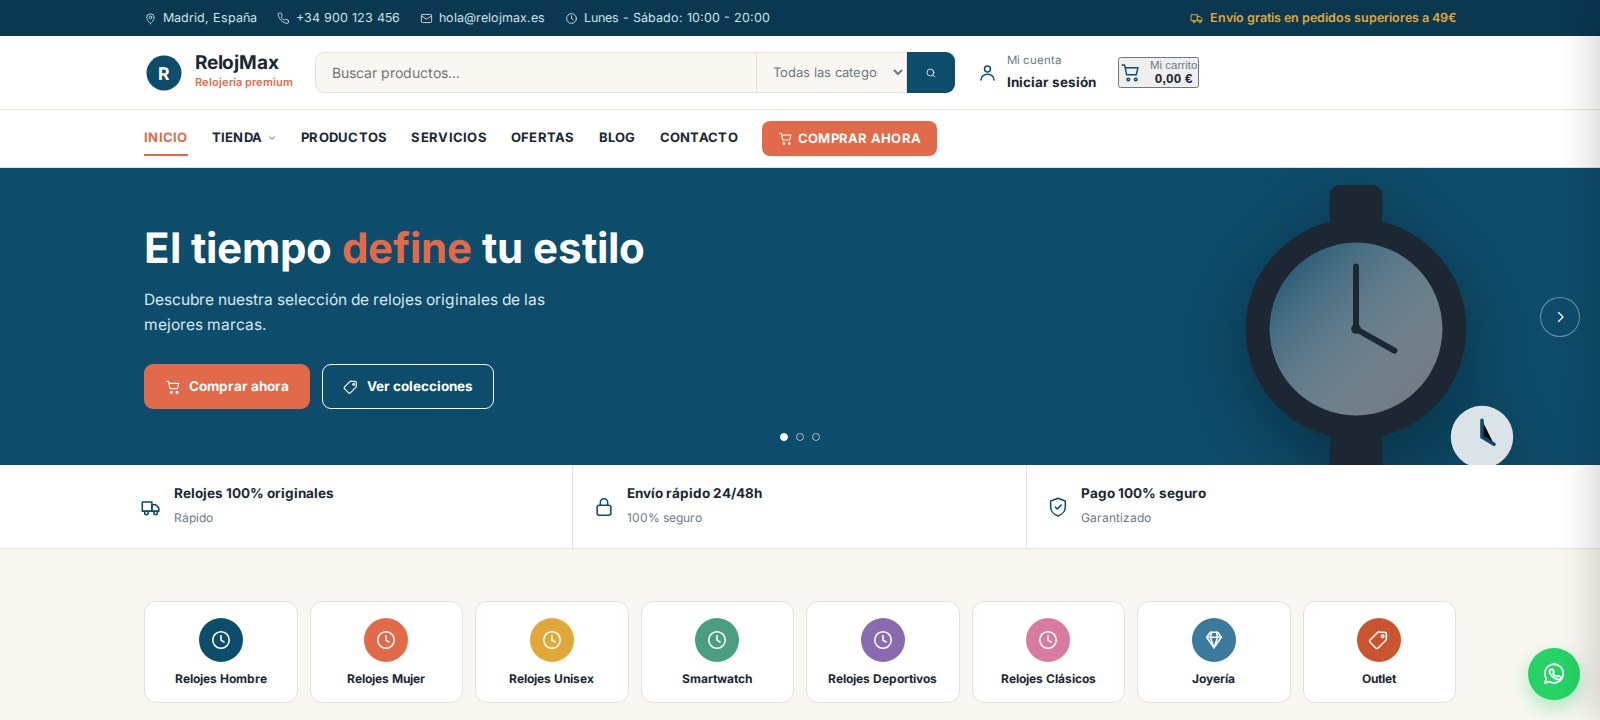
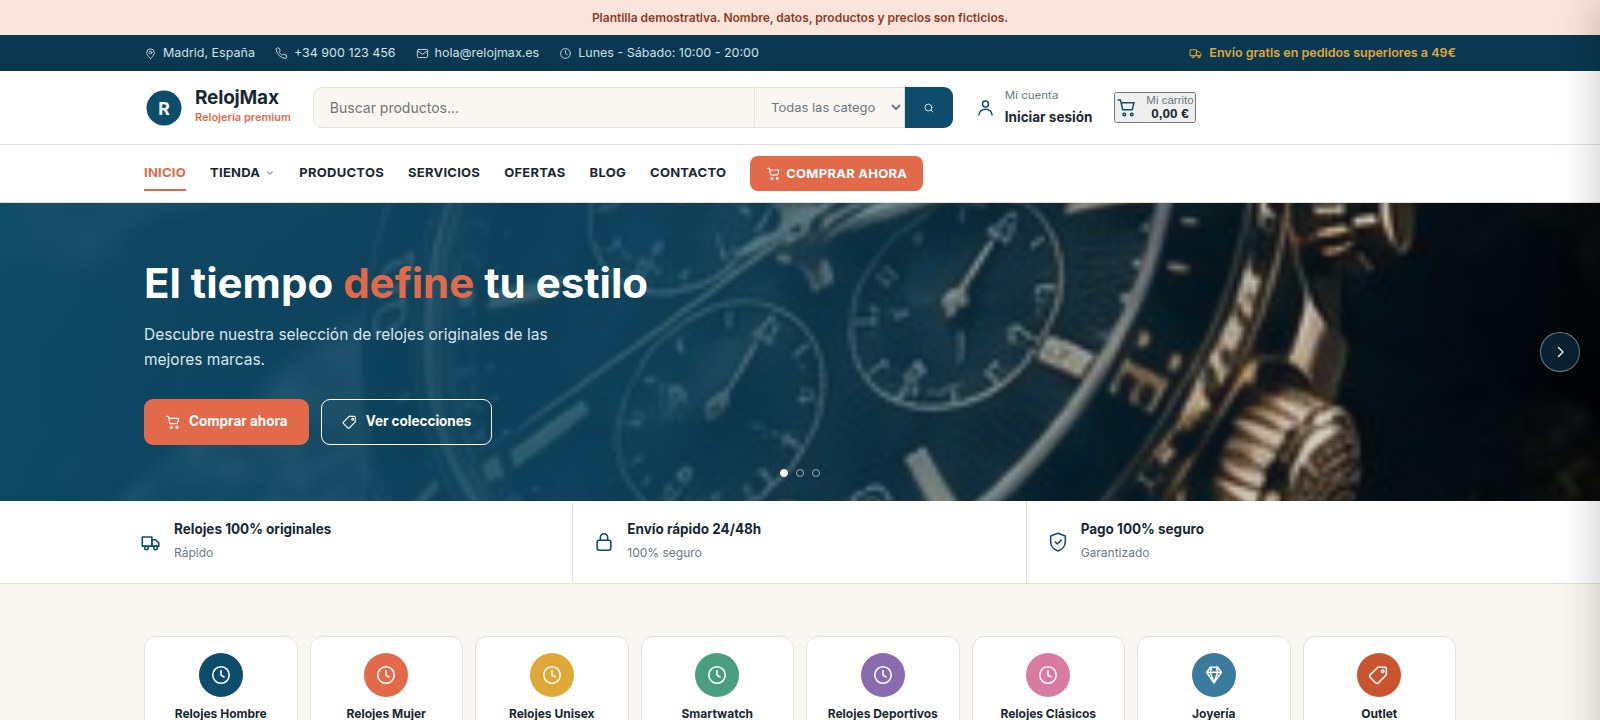
Fotos reales: SolarMax, TransporteMax, RelojMax, Perfumax

diff --git a/public/demos/energia-solar-premium/index.html b/public/demos/energia-solar-premium/index.html
@@ -68,8 +68,7 @@
 
 <!-- Portada -->
 <section class="portada" id="inicio">
-  <div class="portada-lienzo"><svg viewBox="0 0 800 560" preserveAspectRatio="xMidYMid slice" style="width:100%;height:100%" aria-hidden="true"><defs><radialGradient id="hg" cx="62%" cy="46%" r="55%"><stop offset="0%" stop-color="#e0a838" stop-opacity=".28"/><stop offset="100%" stop-color="#e0a838" stop-opacity="0"/></radialGradient></defs><rect width="800" height="560" fill="var(--azul)"/><circle cx="500" cy="280" r="260" fill="url(#hg)"/><circle cx="500" cy="280" r="210" fill="none" stroke="#e0a838" stroke-opacity=".18"/><circle cx="500" cy="280" r="150" fill="none" stroke="#e0a838" stroke-opacity=".12"/></svg></div>
-    <div class="portada-figuras portada-figuras-escena" aria-hidden="true"><svg viewBox="0 0 300 300" style="width:100%;height:100%;overflow:visible" aria-hidden="true"><defs><linearGradient id="g8944d7" x1="0" y1="0" x2="1" y2="1"><stop offset="0%" stop-color="#e0a838"/><stop offset="100%" stop-color="#fff" stop-opacity=".35"/></linearGradient></defs><circle cx="220" cy="90" r="38" fill="#f0c419"/><g stroke="#f0c419" stroke-width="4" stroke-linecap="round"><path d="M220 30v-14M270 46l10-10M286 90h14M270 134l10 10M220 150v14M170 134l-10 10M154 90h-14M170 46l-10-10"/></g><rect x="30" y="160" width="200" height="110" rx="8" fill="#1c2733" transform="skewY(-6)"/><g fill="url(#g8944d7)" transform="skewY(-6)"><rect x="40" y="172" width="88" height="42" rx="3"/><rect x="134" y="172" width="88" height="42" rx="3"/><rect x="40" y="220" width="88" height="42" rx="3"/><rect x="134" y="220" width="88" height="42" rx="3"/></g></svg></div>
+  <div class="portada-lienzo"><img src="img/hero.jpg" alt="" loading="lazy"></div>
     <div class="portada-vel"></div>
   <div class="env">
     <div class="portada-in">
@@ -159,7 +158,7 @@
         <div class="productos">
                       <article class="prod">
               <div class="prod-foto">
-                <div style="width:100%;height:140px;display:flex;align-items:center;justify-content:center;background:var(--crema2);color:var(--azul-cla)"><svg width="30" height="30" viewBox="0 0 24 24" fill="none" stroke="currentColor" stroke-width="1.7" stroke-linecap="round" stroke-linejoin="round" aria-hidden="true"><circle cx="12" cy="12" r="4.5"/><path d="M12 2.5v3M12 18.5v3M21.5 12h-3M5.5 12h-3M18.5 5.5l-2 2M7.5 16.5l-2 2M18.5 18.5l-2-2M7.5 7.5l-2-2"/></svg></div>                <span class="prod-eti eti-nuevo">-10%</span>                <button type="button" class="fav" aria-label="Añadir a favoritos" data-fav>♥</button>
+                <img src="img/panel.jpg" alt="" loading="lazy">                <span class="prod-eti eti-nuevo">-10%</span>                <button type="button" class="fav" aria-label="Añadir a favoritos" data-fav>♥</button>
               </div>
               <div class="prod-cuerpo">
                 <h3>Panel Solar Monocristalino 450W</h3>
@@ -175,7 +174,7 @@
             </article>
                       <article class="prod">
               <div class="prod-foto">
-                <div style="width:100%;height:140px;display:flex;align-items:center;justify-content:center;background:var(--crema2);color:var(--azul-cla)"><svg width="30" height="30" viewBox="0 0 24 24" fill="none" stroke="currentColor" stroke-width="1.7" stroke-linecap="round" stroke-linejoin="round" aria-hidden="true"><path d="M9 18.5h6M9.5 21h5"/><path d="M12 3.5a6 6 0 0 0-3.4 10.9c.6.4 1 1.1 1 1.9v.7h4.8v-.7c0-.8.4-1.5 1-1.9A6 6 0 0 0 12 3.5z"/></svg></div>                <span class="prod-eti eti-nuevo">NUEVO</span>                <button type="button" class="fav" aria-label="Añadir a favoritos" data-fav>♥</button>
+                <img src="img/inversor.jpg" alt="" loading="lazy">                <span class="prod-eti eti-nuevo">NUEVO</span>                <button type="button" class="fav" aria-label="Añadir a favoritos" data-fav>♥</button>
               </div>
               <div class="prod-cuerpo">
                 <h3>Inversor Híbrido 5kW Monofásico</h3>
@@ -191,7 +190,7 @@
             </article>
                       <article class="prod">
               <div class="prod-foto">
-                <div style="width:100%;height:140px;display:flex;align-items:center;justify-content:center;background:var(--crema2);color:var(--azul-cla)"><svg width="30" height="30" viewBox="0 0 24 24" fill="none" stroke="currentColor" stroke-width="1.7" stroke-linecap="round" stroke-linejoin="round" aria-hidden="true"><path d="M9 18.5h6M9.5 21h5"/><path d="M12 3.5a6 6 0 0 0-3.4 10.9c.6.4 1 1.1 1 1.9v.7h4.8v-.7c0-.8.4-1.5 1-1.9A6 6 0 0 0 12 3.5z"/></svg></div>                <span class="prod-eti eti-top">TOP</span>                <button type="button" class="fav" aria-label="Añadir a favoritos" data-fav>♥</button>
+                <img src="img/bateria.jpg" alt="" loading="lazy">                <span class="prod-eti eti-top">TOP</span>                <button type="button" class="fav" aria-label="Añadir a favoritos" data-fav>♥</button>
               </div>
               <div class="prod-cuerpo">
                 <h3>Batería Litio 5kWh 48V 100Ah</h3>
@@ -207,7 +206,7 @@
             </article>
                       <article class="prod">
               <div class="prod-foto">
-                <div style="width:100%;height:140px;display:flex;align-items:center;justify-content:center;background:var(--crema2);color:var(--azul-cla)"><svg width="30" height="30" viewBox="0 0 24 24" fill="none" stroke="currentColor" stroke-width="1.7" stroke-linecap="round" stroke-linejoin="round" aria-hidden="true"><rect x="2.5" y="6" width="19" height="12" rx="1.4"/><path d="M2.5 12h6M12.5 6v6M8.5 12v6M16.5 12v6M12.5 12h9"/></svg></div>                                <button type="button" class="fav" aria-label="Añadir a favoritos" data-fav>♥</button>
+                <img src="img/estructura.jpg" alt="" loading="lazy">                                <button type="button" class="fav" aria-label="Añadir a favoritos" data-fav>♥</button>
               </div>
               <div class="prod-cuerpo">
                 <h3>Estructura Coplanar Techo de Teja</h3>
@@ -223,7 +222,7 @@
             </article>
                       <article class="prod">
               <div class="prod-foto">
-                <div style="width:100%;height:140px;display:flex;align-items:center;justify-content:center;background:var(--crema2);color:var(--azul-cla)"><svg width="30" height="30" viewBox="0 0 24 24" fill="none" stroke="currentColor" stroke-width="1.7" stroke-linecap="round" stroke-linejoin="round" aria-hidden="true"><path d="M3 8.5 12 4l9 4.5-9 4.5-9-4.5z"/><path d="M3 8.5v7L12 20l9-4.5v-7"/><path d="M12 13v7"/></svg></div>                                <button type="button" class="fav" aria-label="Añadir a favoritos" data-fav>♥</button>
+                <img src="img/kit.jpg" alt="" loading="lazy">                                <button type="button" class="fav" aria-label="Añadir a favoritos" data-fav>♥</button>
               </div>
               <div class="prod-cuerpo">
                 <h3>Kit Solar Aislada 3000W 24V</h3>
@@ -239,7 +238,7 @@
             </article>
                       <article class="prod">
               <div class="prod-foto">
-                <div style="width:100%;height:140px;display:flex;align-items:center;justify-content:center;background:var(--crema2);color:var(--azul-cla)"><svg width="30" height="30" viewBox="0 0 24 24" fill="none" stroke="currentColor" stroke-width="1.7" stroke-linecap="round" stroke-linejoin="round" aria-hidden="true"><path d="M9 18.5h6M9.5 21h5"/><path d="M12 3.5a6 6 0 0 0-3.4 10.9c.6.4 1 1.1 1 1.9v.7h4.8v-.7c0-.8.4-1.5 1-1.9A6 6 0 0 0 12 3.5z"/></svg></div>                                <button type="button" class="fav" aria-label="Añadir a favoritos" data-fav>♥</button>
+                <img src="img/cable.jpg" alt="" loading="lazy">                                <button type="button" class="fav" aria-label="Añadir a favoritos" data-fav>♥</button>
               </div>
               <div class="prod-cuerpo">
                 <h3>Cable Solar 6mm² (100m)</h3>
@@ -396,7 +395,7 @@
 
   <a class="wa" href="https://wa.me/34640123456?text=Hola%2C%20quiero%20un%20presupuesto%20de%20instalaci%C3%B3n%20solar." target="_blank" rel="noopener" aria-label="WhatsApp"><svg width="26" height="26" viewBox="0 0 24 24" fill="none" stroke="currentColor" stroke-width="1.7" stroke-linecap="round" stroke-linejoin="round" aria-hidden="true"><path d="M20.5 11.6a8.5 8.5 0 0 1-12.6 7.5L3.5 20.5l1.4-4.3A8.5 8.5 0 1 1 20.5 11.6z"/><path d="M8.9 8.4c.3-.7.6-.7.9-.7h.6c.2 0 .5 0 .7.5l.8 1.9c.1.2 0 .4-.1.6l-.4.5c-.1.2-.3.4-.1.7.2.4.9 1.4 1.9 2 1.2.7 1.4.5 1.7.5.2-.1.6-.5.7-.7.2-.2.3-.2.5-.1l1.8.9c.3.1.4.2.5.4 0 .2 0 .9-.3 1.3-.4.5-1.1.9-1.6.9-1.1.1-2.6-.3-4.4-1.5-2.1-1.4-3.4-3.5-3.5-3.7-.1-.2-.8-1.2-.8-2.3 0-1 .5-1.5.7-1.7z"/></svg></a>
 
-<script type="application/json" id="datosCatalogo">[{"id":"p0","nombre":"Panel Solar Monocristalino 450W","precio":109,"imagen":""},{"id":"p1","nombre":"Inversor Híbrido 5kW Monofásico","precio":899,"imagen":""},{"id":"p2","nombre":"Batería Litio 5kWh 48V 100Ah","precio":1299,"imagen":""},{"id":"p3","nombre":"Estructura Coplanar Techo de Teja","precio":89,"imagen":""},{"id":"p4","nombre":"Kit Solar Aislada 3000W 24V","precio":1790,"imagen":""},{"id":"p5","nombre":"Cable Solar 6mm² (100m)","precio":129,"imagen":""}]</script>
+<script type="application/json" id="datosCatalogo">[{"id":"p0","nombre":"Panel Solar Monocristalino 450W","precio":109,"imagen":"img\/panel.jpg"},{"id":"p1","nombre":"Inversor Híbrido 5kW Monofásico","precio":899,"imagen":"img\/inversor.jpg"},{"id":"p2","nombre":"Batería Litio 5kWh 48V 100Ah","precio":1299,"imagen":"img\/bateria.jpg"},{"id":"p3","nombre":"Estructura Coplanar Techo de Teja","precio":89,"imagen":"img\/estructura.jpg"},{"id":"p4","nombre":"Kit Solar Aislada 3000W 24V","precio":1790,"imagen":"img\/kit.jpg"},{"id":"p5","nombre":"Cable Solar 6mm² (100m)","precio":129,"imagen":"img\/cable.jpg"}]</script>
 <script type="application/json" id="datosEnvio">{"whatsapp":"34640123456","negocio":"SolarMax"}</script>
 <script src="js/main.js"></script>
 </body>

diff --git a/public/demos/perfumeria-premium/index.html b/public/demos/perfumeria-premium/index.html
@@ -68,8 +68,7 @@
 
 <!-- Portada -->
 <section class="portada" id="inicio">
-  <div class="portada-lienzo"><svg viewBox="0 0 800 560" preserveAspectRatio="xMidYMid slice" style="width:100%;height:100%" aria-hidden="true"><defs><radialGradient id="hg" cx="62%" cy="46%" r="55%"><stop offset="0%" stop-color="#d97ba0" stop-opacity=".28"/><stop offset="100%" stop-color="#d97ba0" stop-opacity="0"/></radialGradient></defs><rect width="800" height="560" fill="var(--azul)"/><circle cx="500" cy="280" r="260" fill="url(#hg)"/><circle cx="500" cy="280" r="210" fill="none" stroke="#d97ba0" stroke-opacity=".18"/><circle cx="500" cy="280" r="150" fill="none" stroke="#d97ba0" stroke-opacity=".12"/></svg></div>
-    <div class="portada-figuras portada-figuras-escena" aria-hidden="true"><svg viewBox="0 0 300 300" style="width:100%;height:100%;overflow:visible" aria-hidden="true"><defs><linearGradient id="g6f336f" x1="0" y1="0" x2="1" y2="1"><stop offset="0%" stop-color="#d97ba0"/><stop offset="100%" stop-color="#fff" stop-opacity=".35"/></linearGradient></defs><rect x="120" y="90" width="70" height="150" rx="14" fill="url(#g6f336f)"/><rect x="140" y="60" width="30" height="34" rx="6" fill="#1c2733"/><rect x="132" y="46" width="46" height="18" rx="8" fill="#1c2733"/><rect x="40" y="150" width="46" height="100" rx="10" fill="#fff" opacity=".85"/><rect x="52" y="128" width="22" height="26" rx="5" fill="#1c2733"/><rect x="225" y="160" width="46" height="90" rx="10" fill="#fff" opacity=".7"/><rect x="237" y="140" width="22" height="24" rx="5" fill="#1c2733"/></svg></div>
+  <div class="portada-lienzo"><img src="img/hero.jpg" alt="" loading="lazy"></div>
     <div class="portada-vel"></div>
   <div class="env">
     <div class="portada-in">
@@ -147,7 +146,7 @@
         <div class="productos">
                       <article class="prod">
               <div class="prod-foto">
-                <div style="width:100%;height:140px;display:flex;align-items:center;justify-content:center;background:var(--crema2);color:var(--azul-cla)"><svg width="30" height="30" viewBox="0 0 24 24" fill="none" stroke="currentColor" stroke-width="1.7" stroke-linecap="round" stroke-linejoin="round" aria-hidden="true"><path d="M4 9 8 3.5h8L20 9l-8 11.5z"/><path d="M4 9h16M9.5 3.5 8 9l4 11.5 4-11.5-1.5-5.5"/></svg></div>                <span class="prod-eti eti-nuevo">-20%</span>                <button type="button" class="fav" aria-label="Añadir a favoritos" data-fav>♥</button>
+                <img src="img/goodgirl.jpg" alt="" loading="lazy">                <span class="prod-eti eti-nuevo">-20%</span>                <button type="button" class="fav" aria-label="Añadir a favoritos" data-fav>♥</button>
               </div>
               <div class="prod-cuerpo">
                 <h3>Good Girl — Carolina Herrera</h3>
@@ -163,7 +162,7 @@
             </article>
                       <article class="prod">
               <div class="prod-foto">
-                <div style="width:100%;height:140px;display:flex;align-items:center;justify-content:center;background:var(--crema2);color:var(--azul-cla)"><svg width="30" height="30" viewBox="0 0 24 24" fill="none" stroke="currentColor" stroke-width="1.7" stroke-linecap="round" stroke-linejoin="round" aria-hidden="true"><path d="M10 2.5h4v2.8l1.8 2.2c.5.6.7 1.3.7 2.1v9.4a2.5 2.5 0 0 1-2.5 2.5h-4a2.5 2.5 0 0 1-2.5-2.5V9.6c0-.8.2-1.5.7-2.1L10 5.3z"/><path d="M9.5 12.5h5"/></svg></div>                <span class="prod-eti eti-nuevo">NUEVO</span>                <button type="button" class="fav" aria-label="Añadir a favoritos" data-fav>♥</button>
+                <img src="img/libre.jpg" alt="" loading="lazy">                <span class="prod-eti eti-nuevo">NUEVO</span>                <button type="button" class="fav" aria-label="Añadir a favoritos" data-fav>♥</button>
               </div>
               <div class="prod-cuerpo">
                 <h3>Libre — Yves Saint Laurent</h3>
@@ -179,7 +178,7 @@
             </article>
                       <article class="prod">
               <div class="prod-foto">
-                <div style="width:100%;height:140px;display:flex;align-items:center;justify-content:center;background:var(--crema2);color:var(--azul-cla)"><svg width="30" height="30" viewBox="0 0 24 24" fill="none" stroke="currentColor" stroke-width="1.7" stroke-linecap="round" stroke-linejoin="round" aria-hidden="true"><path d="M10 2.5h4v2.8l1.8 2.2c.5.6.7 1.3.7 2.1v9.4a2.5 2.5 0 0 1-2.5 2.5h-4a2.5 2.5 0 0 1-2.5-2.5V9.6c0-.8.2-1.5.7-2.1L10 5.3z"/><path d="M9.5 12.5h5"/></svg></div>                                <button type="button" class="fav" aria-label="Añadir a favoritos" data-fav>♥</button>
+                <img src="img/sauvage.jpg" alt="" loading="lazy">                                <button type="button" class="fav" aria-label="Añadir a favoritos" data-fav>♥</button>
               </div>
               <div class="prod-cuerpo">
                 <h3>Sauvage — Dior</h3>
@@ -195,7 +194,7 @@
             </article>
                       <article class="prod">
               <div class="prod-foto">
-                <div style="width:100%;height:140px;display:flex;align-items:center;justify-content:center;background:var(--crema2);color:var(--azul-cla)"><svg width="30" height="30" viewBox="0 0 24 24" fill="none" stroke="currentColor" stroke-width="1.7" stroke-linecap="round" stroke-linejoin="round" aria-hidden="true"><path d="M10 2.5h4v2.8l1.8 2.2c.5.6.7 1.3.7 2.1v9.4a2.5 2.5 0 0 1-2.5 2.5h-4a2.5 2.5 0 0 1-2.5-2.5V9.6c0-.8.2-1.5.7-2.1L10 5.3z"/><path d="M9.5 12.5h5"/></svg></div>                <span class="prod-eti eti-oferta">OFERTA</span>                <button type="button" class="fav" aria-label="Añadir a favoritos" data-fav>♥</button>
+                <img src="img/lavie.jpg" alt="" loading="lazy">                <span class="prod-eti eti-oferta">OFERTA</span>                <button type="button" class="fav" aria-label="Añadir a favoritos" data-fav>♥</button>
               </div>
               <div class="prod-cuerpo">
                 <h3>La Vie Est Belle — Lancôme</h3>
@@ -211,7 +210,7 @@
             </article>
                       <article class="prod">
               <div class="prod-foto">
-                <div style="width:100%;height:140px;display:flex;align-items:center;justify-content:center;background:var(--crema2);color:var(--azul-cla)"><svg width="30" height="30" viewBox="0 0 24 24" fill="none" stroke="currentColor" stroke-width="1.7" stroke-linecap="round" stroke-linejoin="round" aria-hidden="true"><path d="M10 2.5h4v2.8l1.8 2.2c.5.6.7 1.3.7 2.1v9.4a2.5 2.5 0 0 1-2.5 2.5h-4a2.5 2.5 0 0 1-2.5-2.5V9.6c0-.8.2-1.5.7-2.1L10 5.3z"/><path d="M9.5 12.5h5"/></svg></div>                                <button type="button" class="fav" aria-label="Añadir a favoritos" data-fav>♥</button>
+                <img src="img/lightblue.jpg" alt="" loading="lazy">                                <button type="button" class="fav" aria-label="Añadir a favoritos" data-fav>♥</button>
               </div>
               <div class="prod-cuerpo">
                 <h3>Light Blue — Dolce &amp; Gabbana</h3>
@@ -227,7 +226,7 @@
             </article>
                       <article class="prod">
               <div class="prod-foto">
-                <div style="width:100%;height:140px;display:flex;align-items:center;justify-content:center;background:var(--crema2);color:var(--azul-cla)"><svg width="30" height="30" viewBox="0 0 24 24" fill="none" stroke="currentColor" stroke-width="1.7" stroke-linecap="round" stroke-linejoin="round" aria-hidden="true"><path d="M4 9 8 3.5h8L20 9l-8 11.5z"/><path d="M4 9h16M9.5 3.5 8 9l4 11.5 4-11.5-1.5-5.5"/></svg></div>                                <button type="button" class="fav" aria-label="Añadir a favoritos" data-fav>♥</button>
+                <img src="img/onemillion.jpg" alt="" loading="lazy">                                <button type="button" class="fav" aria-label="Añadir a favoritos" data-fav>♥</button>
               </div>
               <div class="prod-cuerpo">
                 <h3>One Million — Paco Rabanne</h3>
@@ -384,7 +383,7 @@
 
   <a class="wa" href="https://wa.me/34600123456?text=Hola%2C%20tengo%20una%20consulta%20sobre%20un%20perfume." target="_blank" rel="noopener" aria-label="WhatsApp"><svg width="26" height="26" viewBox="0 0 24 24" fill="none" stroke="currentColor" stroke-width="1.7" stroke-linecap="round" stroke-linejoin="round" aria-hidden="true"><path d="M20.5 11.6a8.5 8.5 0 0 1-12.6 7.5L3.5 20.5l1.4-4.3A8.5 8.5 0 1 1 20.5 11.6z"/><path d="M8.9 8.4c.3-.7.6-.7.9-.7h.6c.2 0 .5 0 .7.5l.8 1.9c.1.2 0 .4-.1.6l-.4.5c-.1.2-.3.4-.1.7.2.4.9 1.4 1.9 2 1.2.7 1.4.5 1.7.5.2-.1.6-.5.7-.7.2-.2.3-.2.5-.1l1.8.9c.3.1.4.2.5.4 0 .2 0 .9-.3 1.3-.4.5-1.1.9-1.6.9-1.1.1-2.6-.3-4.4-1.5-2.1-1.4-3.4-3.5-3.5-3.7-.1-.2-.8-1.2-.8-2.3 0-1 .5-1.5.7-1.7z"/></svg></a>
 
-<script type="application/json" id="datosCatalogo">[{"id":"p0","nombre":"Good Girl — Carolina Herrera","precio":79.95,"imagen":""},{"id":"p1","nombre":"Libre — Yves Saint Laurent","precio":89.95,"imagen":""},{"id":"p2","nombre":"Sauvage — Dior","precio":94.95,"imagen":""},{"id":"p3","nombre":"La Vie Est Belle — Lancôme","precio":74.95,"imagen":""},{"id":"p4","nombre":"Light Blue — Dolce \u0026 Gabbana","precio":69.95,"imagen":""},{"id":"p5","nombre":"One Million — Paco Rabanne","precio":79.95,"imagen":""}]</script>
+<script type="application/json" id="datosCatalogo">[{"id":"p0","nombre":"Good Girl — Carolina Herrera","precio":79.95,"imagen":"img\/goodgirl.jpg"},{"id":"p1","nombre":"Libre — Yves Saint Laurent","precio":89.95,"imagen":"img\/libre.jpg"},{"id":"p2","nombre":"Sauvage — Dior","precio":94.95,"imagen":"img\/sauvage.jpg"},{"id":"p3","nombre":"La Vie Est Belle — Lancôme","precio":74.95,"imagen":"img\/lavie.jpg"},{"id":"p4","nombre":"Light Blue — Dolce \u0026 Gabbana","precio":69.95,"imagen":"img\/lightblue.jpg"},{"id":"p5","nombre":"One Million — Paco Rabanne","precio":79.95,"imagen":"img\/onemillion.jpg"}]</script>
 <script type="application/json" id="datosEnvio">{"whatsapp":"34600123456","negocio":"Perfumax"}</script>
 <script src="js/main.js"></script>
 </body>

diff --git a/public/demos/relojeria-premium/index.html b/public/demos/relojeria-premium/index.html
@@ -68,8 +68,7 @@
 
 <!-- Portada -->
 <section class="portada" id="inicio">
-  <div class="portada-lienzo"><svg viewBox="0 0 800 560" preserveAspectRatio="xMidYMid slice" style="width:100%;height:100%" aria-hidden="true"><defs><radialGradient id="hg" cx="62%" cy="46%" r="55%"><stop offset="0%" stop-color="#0e4c6b" stop-opacity=".28"/><stop offset="100%" stop-color="#0e4c6b" stop-opacity="0"/></radialGradient></defs><rect width="800" height="560" fill="var(--azul)"/><circle cx="500" cy="280" r="260" fill="url(#hg)"/><circle cx="500" cy="280" r="210" fill="none" stroke="#0e4c6b" stroke-opacity=".18"/><circle cx="500" cy="280" r="150" fill="none" stroke="#0e4c6b" stroke-opacity=".12"/></svg></div>
-    <div class="portada-figuras portada-figuras-escena" aria-hidden="true"><svg viewBox="0 0 300 300" style="width:100%;height:100%;overflow:visible" aria-hidden="true"><defs><linearGradient id="g069616" x1="0" y1="0" x2="1" y2="1"><stop offset="0%" stop-color="#0e4c6b"/><stop offset="100%" stop-color="#fff" stop-opacity=".35"/></linearGradient></defs><circle cx="150" cy="160" r="92" fill="#1c2733"/><circle cx="150" cy="160" r="72" fill="url(#g069616)"/><circle cx="150" cy="160" r="4" fill="#1c2733"/><path d="M150 160V108M150 160l32 18" stroke="#1c2733" stroke-width="5" stroke-linecap="round"/><rect x="128" y="40" width="44" height="34" rx="8" fill="#1c2733"/><rect x="128" y="246" width="44" height="34" rx="8" fill="#1c2733"/><circle cx="255" cy="250" r="26" fill="#fff" opacity=".85"/><path d="M255 236v14l10 6" stroke="#0e4c6b" stroke-width="3" stroke-linecap="round"/></svg></div>
+  <div class="portada-lienzo"><img src="img/hero.jpg" alt="" loading="lazy"></div>
     <div class="portada-vel"></div>
   <div class="env">
     <div class="portada-in">
@@ -155,7 +154,7 @@
         <div class="productos">
                       <article class="prod">
               <div class="prod-foto">
-                <div style="width:100%;height:140px;display:flex;align-items:center;justify-content:center;background:var(--crema2);color:var(--azul-cla)"><svg width="30" height="30" viewBox="0 0 24 24" fill="none" stroke="currentColor" stroke-width="1.7" stroke-linecap="round" stroke-linejoin="round" aria-hidden="true"><circle cx="12" cy="12" r="9"/><path d="M12 7v5.2l3.3 2"/></svg></div>                <span class="prod-eti eti-nuevo">NUEVO</span>                <button type="button" class="fav" aria-label="Añadir a favoritos" data-fav>♥</button>
+                <img src="img/tissot.jpg" alt="" loading="lazy">                <span class="prod-eti eti-nuevo">NUEVO</span>                <button type="button" class="fav" aria-label="Añadir a favoritos" data-fav>♥</button>
               </div>
               <div class="prod-cuerpo">
                 <h3>TISSOT PRX Powermatic 80 Automático</h3>
@@ -171,7 +170,7 @@
             </article>
                       <article class="prod">
               <div class="prod-foto">
-                <div style="width:100%;height:140px;display:flex;align-items:center;justify-content:center;background:var(--crema2);color:var(--azul-cla)"><svg width="30" height="30" viewBox="0 0 24 24" fill="none" stroke="currentColor" stroke-width="1.7" stroke-linecap="round" stroke-linejoin="round" aria-hidden="true"><circle cx="12" cy="12" r="9"/><path d="M12 7v5.2l3.3 2"/></svg></div>                <span class="prod-eti eti-nuevo">-15%</span>                <button type="button" class="fav" aria-label="Añadir a favoritos" data-fav>♥</button>
+                <img src="img/tagheuer.jpg" alt="" loading="lazy">                <span class="prod-eti eti-nuevo">-15%</span>                <button type="button" class="fav" aria-label="Añadir a favoritos" data-fav>♥</button>
               </div>
               <div class="prod-cuerpo">
                 <h3>TAG HEUER Carrera Calibre 5</h3>
@@ -187,7 +186,7 @@
             </article>
                       <article class="prod">
               <div class="prod-foto">
-                <div style="width:100%;height:140px;display:flex;align-items:center;justify-content:center;background:var(--crema2);color:var(--azul-cla)"><svg width="30" height="30" viewBox="0 0 24 24" fill="none" stroke="currentColor" stroke-width="1.7" stroke-linecap="round" stroke-linejoin="round" aria-hidden="true"><circle cx="12" cy="12" r="9"/><path d="M12 7v5.2l3.3 2"/></svg></div>                <span class="prod-eti eti-top">TOP</span>                <button type="button" class="fav" aria-label="Añadir a favoritos" data-fav>♥</button>
+                <img src="img/seiko.jpg" alt="" loading="lazy">                <span class="prod-eti eti-top">TOP</span>                <button type="button" class="fav" aria-label="Añadir a favoritos" data-fav>♥</button>
               </div>
               <div class="prod-cuerpo">
                 <h3>SEIKO Prospex Diver Automático</h3>
@@ -203,7 +202,7 @@
             </article>
                       <article class="prod">
               <div class="prod-foto">
-                <div style="width:100%;height:140px;display:flex;align-items:center;justify-content:center;background:var(--crema2);color:var(--azul-cla)"><svg width="30" height="30" viewBox="0 0 24 24" fill="none" stroke="currentColor" stroke-width="1.7" stroke-linecap="round" stroke-linejoin="round" aria-hidden="true"><circle cx="12" cy="12" r="9"/><path d="M12 7v5.2l3.3 2"/></svg></div>                <span class="prod-eti eti-oferta">OFERTA</span>                <button type="button" class="fav" aria-label="Añadir a favoritos" data-fav>♥</button>
+                <img src="img/citizen.jpg" alt="" loading="lazy">                <span class="prod-eti eti-oferta">OFERTA</span>                <button type="button" class="fav" aria-label="Añadir a favoritos" data-fav>♥</button>
               </div>
               <div class="prod-cuerpo">
                 <h3>CITIZEN Eco-Drive Titanio</h3>
@@ -219,7 +218,7 @@
             </article>
                       <article class="prod">
               <div class="prod-foto">
-                <div style="width:100%;height:140px;display:flex;align-items:center;justify-content:center;background:var(--crema2);color:var(--azul-cla)"><svg width="30" height="30" viewBox="0 0 24 24" fill="none" stroke="currentColor" stroke-width="1.7" stroke-linecap="round" stroke-linejoin="round" aria-hidden="true"><circle cx="12" cy="12" r="9"/><path d="M12 7v5.2l3.3 2"/></svg></div>                                <button type="button" class="fav" aria-label="Añadir a favoritos" data-fav>♥</button>
+                <img src="img/hamilton.jpg" alt="" loading="lazy">                                <button type="button" class="fav" aria-label="Añadir a favoritos" data-fav>♥</button>
               </div>
               <div class="prod-cuerpo">
                 <h3>HAMILTON Jazzmaster Open Heart</h3>
@@ -235,7 +234,7 @@
             </article>
                       <article class="prod">
               <div class="prod-foto">
-                <div style="width:100%;height:140px;display:flex;align-items:center;justify-content:center;background:var(--crema2);color:var(--azul-cla)"><svg width="30" height="30" viewBox="0 0 24 24" fill="none" stroke="currentColor" stroke-width="1.7" stroke-linecap="round" stroke-linejoin="round" aria-hidden="true"><circle cx="12" cy="12" r="9"/><path d="M12 7v5.2l3.3 2"/></svg></div>                                <button type="button" class="fav" aria-label="Añadir a favoritos" data-fav>♥</button>
+                <img src="img/longines.jpg" alt="" loading="lazy">                                <button type="button" class="fav" aria-label="Añadir a favoritos" data-fav>♥</button>
               </div>
               <div class="prod-cuerpo">
                 <h3>LONGINES Conquest Classic</h3>
@@ -392,7 +391,7 @@
 
   <a class="wa" href="https://wa.me/34600123456?text=Hola%2C%20tengo%20una%20consulta%20sobre%20un%20reloj." target="_blank" rel="noopener" aria-label="WhatsApp"><svg width="26" height="26" viewBox="0 0 24 24" fill="none" stroke="currentColor" stroke-width="1.7" stroke-linecap="round" stroke-linejoin="round" aria-hidden="true"><path d="M20.5 11.6a8.5 8.5 0 0 1-12.6 7.5L3.5 20.5l1.4-4.3A8.5 8.5 0 1 1 20.5 11.6z"/><path d="M8.9 8.4c.3-.7.6-.7.9-.7h.6c.2 0 .5 0 .7.5l.8 1.9c.1.2 0 .4-.1.6l-.4.5c-.1.2-.3.4-.1.7.2.4.9 1.4 1.9 2 1.2.7 1.4.5 1.7.5.2-.1.6-.5.7-.7.2-.2.3-.2.5-.1l1.8.9c.3.1.4.2.5.4 0 .2 0 .9-.3 1.3-.4.5-1.1.9-1.6.9-1.1.1-2.6-.3-4.4-1.5-2.1-1.4-3.4-3.5-3.5-3.7-.1-.2-.8-1.2-.8-2.3 0-1 .5-1.5.7-1.7z"/></svg></a>
 
-<script type="application/json" id="datosCatalogo">[{"id":"p0","nombre":"TISSOT PRX Powermatic 80 Automático","precio":775,"imagen":""},{"id":"p1","nombre":"TAG HEUER Carrera Calibre 5","precio":2760,"imagen":""},{"id":"p2","nombre":"SEIKO Prospex Diver Automático","precio":590,"imagen":""},{"id":"p3","nombre":"CITIZEN Eco-Drive Titanio","precio":229,"imagen":""},{"id":"p4","nombre":"HAMILTON Jazzmaster Open Heart","precio":995,"imagen":""},{"id":"p5","nombre":"LONGINES Conquest Classic","precio":1.05,"imagen":""}]</script>
+<script type="application/json" id="datosCatalogo">[{"id":"p0","nombre":"TISSOT PRX Powermatic 80 Automático","precio":775,"imagen":"img\/tissot.jpg"},{"id":"p1","nombre":"TAG HEUER Carrera Calibre 5","precio":2760,"imagen":"img\/tagheuer.jpg"},{"id":"p2","nombre":"SEIKO Prospex Diver Automático","precio":590,"imagen":"img\/seiko.jpg"},{"id":"p3","nombre":"CITIZEN Eco-Drive Titanio","precio":229,"imagen":"img\/citizen.jpg"},{"id":"p4","nombre":"HAMILTON Jazzmaster Open Heart","precio":995,"imagen":"img\/hamilton.jpg"},{"id":"p5","nombre":"LONGINES Conquest Classic","precio":1.05,"imagen":"img\/longines.jpg"}]</script>
 <script type="application/json" id="datosEnvio">{"whatsapp":"34600123456","negocio":"RelojMax"}</script>
 <script src="js/main.js"></script>
 </body>

diff --git a/public/demos/mudanzas-transportes-premium/index.html b/public/demos/mudanzas-transportes-premium/index.html
@@ -51,26 +51,8 @@
 <!-- Portada -->
 <section class="portada" id="inicio">
   <div class="portada-fondo">
-          <svg class="portada-arte" viewBox="0 0 520 520" fill="none" aria-hidden="true">
-  <defs>
-    <radialGradient id="brillo" cx="50%" cy="46%" r="52%">
-      <stop offset="0%" stop-color="#c9a227" stop-opacity=".30"/>
-      <stop offset="60%" stop-color="#c9a227" stop-opacity=".07"/>
-      <stop offset="100%" stop-color="#c9a227" stop-opacity="0"/>
-    </radialGradient>
-    <linearGradient id="metal" gradientUnits="userSpaceOnUse" x1="260" y1="100" x2="260" y2="400">
-      <stop offset="0%" stop-color="#f0dca4"/>
-      <stop offset="55%" stop-color="#c9a227"/>
-      <stop offset="100%" stop-color="#8c6f18"/>
-    </linearGradient>
-  </defs>
-
-  <circle cx="260" cy="248" r="238" fill="url(#brillo)"/>
-  <circle cx="260" cy="248" r="196" stroke="#c9a227" stroke-opacity=".16" stroke-width="1"/>
-  <circle cx="260" cy="248" r="168" stroke="#c9a227" stroke-opacity=".10" stroke-width="1"/>
-
-  <g transform="translate(200,188)"><svg width="120" height="120" viewBox="0 0 24 24" fill="none" stroke="url(#metal)" stroke-width="1.5" stroke-linecap="round" stroke-linejoin="round" aria-hidden="true"><path d="M2.5 6.5h10.5v10H2.5z"/><path d="M13 9.5h4l3.5 3.5v3.5H13z"/><circle cx="7" cy="18.5" r="1.9"/><circle cx="17" cy="18.5" r="1.9"/></svg></g>
-</svg>      </div>
+          <img src="img/hero.jpg" alt="">
+      </div>
   <div class="portada-vel"></div>
   <div class="env">
     <div class="portada-in">
@@ -231,9 +213,7 @@
   <div class="env">
     <div class="nos-rejilla">
       <div class="nos-foto">
-                  <div style="height:430px;display:flex;align-items:center;justify-content:center;
-            background:linear-gradient(150deg,#111d33,#0b1424);border:1px solid var(--linea);border-radius:var(--radio)">
-            <svg class="marca-emblema" width="150" height="150" viewBox="0 0 48 48" fill="none" aria-hidden="true"><path d="M24 3l17 6v13c0 10-7 18.5-17 22C14 40.5 7 32 7 22V9z" fill="none" stroke="#c9a227" stroke-width="1.6"/><text x="24" y="25" text-anchor="middle" dominant-baseline="central" font-family="Playfair Display, Georgia, serif" font-weight="700" font-size="19" fill="#e2c874">T</text></svg>          </div>
+                  <img src="img/equipo.jpg" alt="Nuestro equipo">
                 <div class="nos-sello">
           <strong>+15</strong>
           <span>años de experiencia</span>

diff --git a/public/demos/mudanzas-transportes-premium/css/style.css b/public/demos/mudanzas-transportes-premium/css/style.css
@@ -332,5 +332,3 @@ h3{font-size:20px;}
   .llamada .env{flex-direction:column;align-items:flex-start;}
   .barra-top .izq span:nth-child(n+2){display:none;}
 }
-
-html,body{overflow-x:hidden;max-width:100%}

diff --git a/public/demos/energia-solar-premium/css/style.css b/public/demos/energia-solar-premium/css/style.css
@@ -366,5 +366,3 @@ h3{font-size:16px;font-weight:700}
   .portada-botones .btn{flex:1}
   .barra-top .izq span:nth-child(n+2){display:none}
 }
-
-html,body{overflow-x:hidden;max-width:100%}

diff --git a/public/demos/perfumeria-premium/css/style.css b/public/demos/perfumeria-premium/css/style.css
@@ -366,5 +366,3 @@ h3{font-size:16px;font-weight:700}
   .portada-botones .btn{flex:1}
   .barra-top .izq span:nth-child(n+2){display:none}
 }
-
-html,body{overflow-x:hidden;max-width:100%}

diff --git a/public/demos/relojeria-premium/css/style.css b/public/demos/relojeria-premium/css/style.css
@@ -366,5 +366,3 @@ h3{font-size:16px;font-weight:700}
   .portada-botones .btn{flex:1}
   .barra-top .izq span:nth-child(n+2){display:none}
 }
-
-html,body{overflow-x:hidden;max-width:100%}
